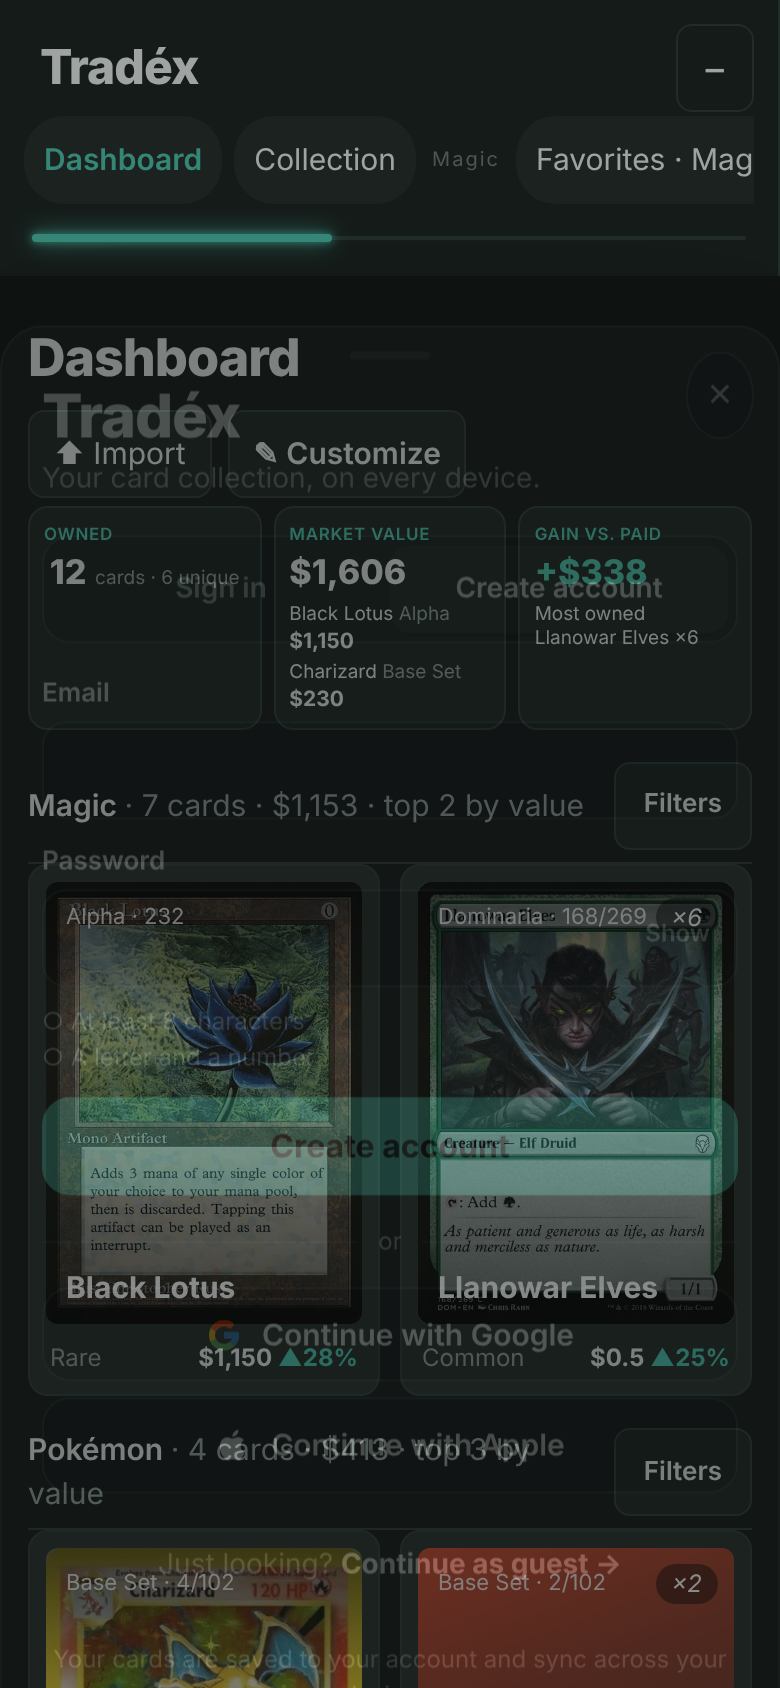
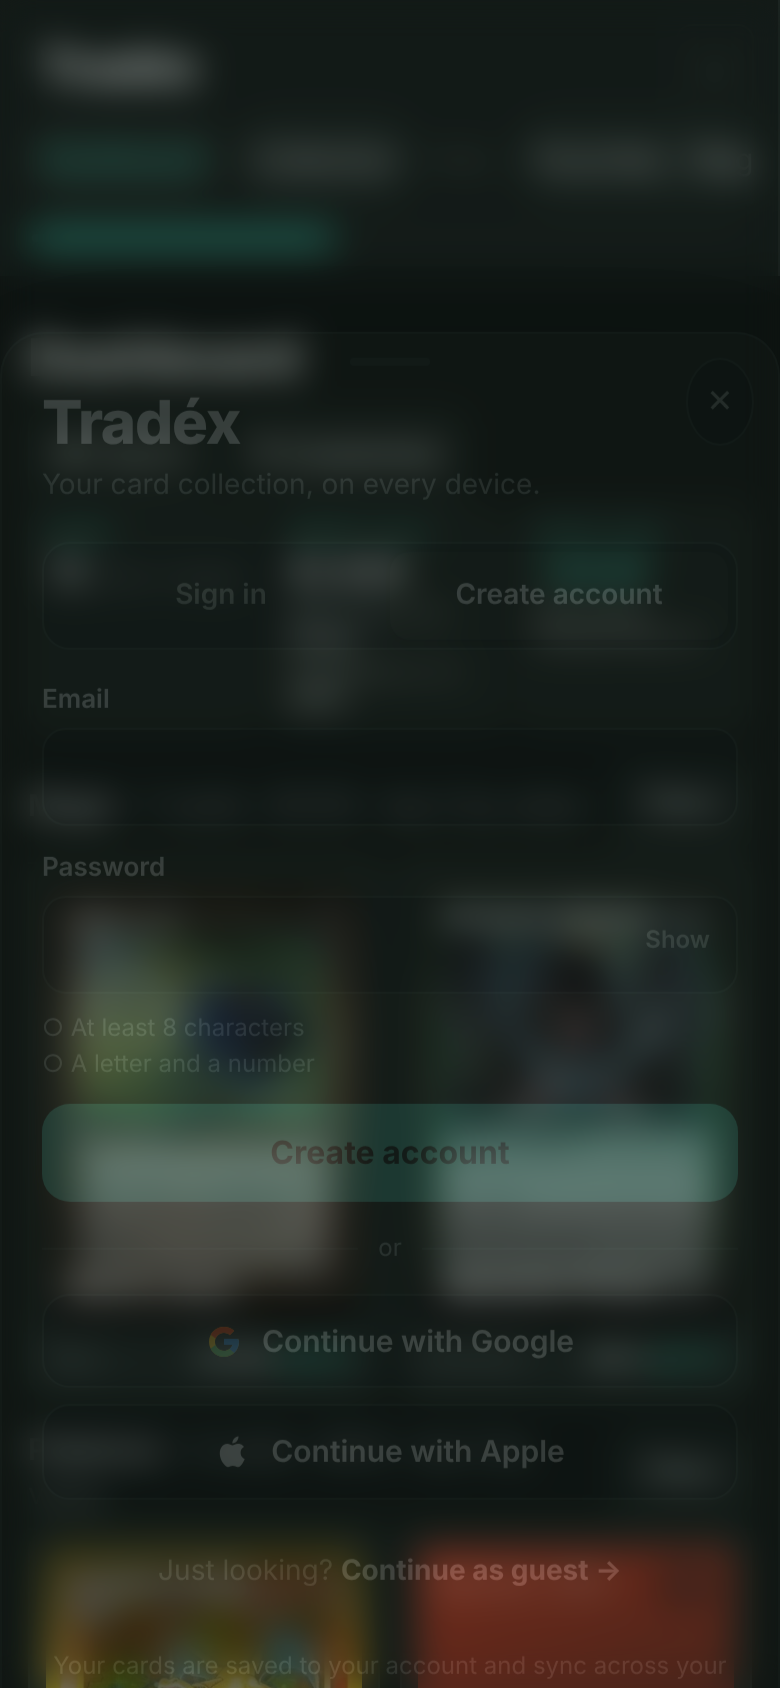
Blur the app behind sign-in, then clear the haze once you're in
The sign-in card stays the same. The live app behind it is now frosted
(backdrop blur) so you can see its shapes, and on sign-in, guest, or a
new password the haze fades away over 0.7s to reveal the app.

Claude-Session: https://claude.ai/code/session_01K6ofJxh6QarDQ2gKnJ83gJ

diff --git a/js/account.js b/js/account.js
@@ -104,7 +104,11 @@ async function adopt(){SY=loadSY();if(SY&&SY.uid===user.id)return sync();
 
 // ---------- UI: sign-in screen and account menu ----------
 const css=`#txa{position:fixed;inset:0;z-index:100000;display:flex;align-items:center;justify-content:center;padding:16px;overflow:auto;visibility:visible;color:var(--ink);
- background:rgba(6,10,9,.32);animation:txin .25s ease-out}
+ background:rgba(6,10,9,.38);-webkit-backdrop-filter:blur(9px) saturate(1.15);backdrop-filter:blur(9px) saturate(1.15);animation:txin .35s ease-out;
+ transition:background .7s ease,backdrop-filter .7s ease,-webkit-backdrop-filter .7s ease}
+#txa.clear{background:rgba(6,10,9,0);-webkit-backdrop-filter:blur(0) saturate(1);backdrop-filter:blur(0) saturate(1);pointer-events:none}
+#txa.clear .bx{transition:transform .35s ease-in,opacity .3s ease-in;transform:translateY(16px) scale(.97);opacity:0}
+@media(prefers-reduced-motion:reduce){#txa,#txa.clear .bx{transition:none;animation:none}}
 @keyframes txin{from{opacity:0}}@keyframes txup{from{transform:translateY(40px);opacity:0}}
 #txa .x{position:absolute;top:12px;right:12px;width:34px;height:34px;border-radius:50%;border:1px solid var(--line);background:var(--bg);color:var(--mut);cursor:pointer;font-size:16px;margin:0;padding:0}
 #txa .bx{position:relative;width:min(420px,100%);background:var(--panel);border:1px solid var(--line);border-radius:22px;padding:26px 24px 20px;box-shadow:0 30px 80px rgba(0,0,0,.45);animation:txup .3s ease-out}
@@ -169,7 +173,7 @@ function screen(){const up=view==='up',fan='',x=`<button type="button" class="x"
   <p class="sub">It can take a minute. Check spam if you don’t see it.</p>
   ${note&&note.resend?`<button type="button" class="go2" id="txresend">Send it again</button>`:''}<button type="button" class="go2" data-view="in">Back to sign in</button><div class="msg" id="txmsg" role="status" aria-live="polite"></div></div>`}
 function gate(msg,err){let g=$('#txa');if(!g){g=document.createElement('div');g.id='txa';document.body.appendChild(g)}
- g.innerHTML=screen();H.classList.remove('pend');if(msg)say(msg,err);
+ g.classList.remove('clear');g.innerHTML=screen();H.classList.remove('pend');if(msg)say(msg,err);
  const f=$('#txe')&&!$('#txe').value?$('#txe'):$('#txp')||$('#txe');if(f&&matchMedia('(pointer:fine)').matches)f.focus();rules()}
 function go(v){if($('#txe'))email=$('#txe').value.trim();view=v;if(v==='in'||v==='up')LS('tradex_auth_view',v);gate()}
 // Messages can carry one action, e.g. "Reset password" or "Resend email".
@@ -199,7 +203,7 @@ document.addEventListener('submit',e=>{if(e.target.id!=='txf')return;e.preventDe
   if(view==='up'){if((await BK.signUp(email,password)).confirm){note={text:`We sent a confirmation link to ${email}. Open it to finish creating your account.`,resend:true};go('sent')}}
   else if(view==='in')await BK.signIn(email,password);
   else if(view==='reset'){await BK.resetPassword(email);note={text:`We sent a password reset link to ${email}.`};go('sent')}
-  else if(view==='newpw'){await BK.updatePassword(password);const g=$('#txa');if(g)g.remove();recovering=false;if(user)status(state||'ok')}
+  else if(view==='newpw'){await BK.updatePassword(password);lift();recovering=false;if(user)status(state||'ok')}
  }catch(x){const[f,a]=friendly(x);say(f,true,a)}})});
 document.addEventListener('click',async e=>{const t=e.target.closest('button');if(!t)return;
  if(t.closest('#txa')&&t.dataset.view){go(t.dataset.view);return}
@@ -229,7 +233,8 @@ function me(){let b=$('#txme');if(!b){b=document.createElement('button');b.id='t
  b.innerHTML='<i></i>'+esc((user.email||'Account').split('@')[0]);status(state||'ok')}
 let recovering=false;
 const isGuest=()=>LS('tradex_guest')==='1';
-function guest(){LS('tradex_guest','1');const g=$('#txa');if(g)g.remove();H.classList.remove('pend');guestBtn()}
+function lift(){const g=$('#txa');if(!g||g.classList.contains('clear'))return;g.classList.add('clear');setTimeout(()=>{if(g.classList.contains('clear'))g.remove()},matchMedia('(prefers-reduced-motion:reduce)').matches?0:750)}
+function guest(){LS('tradex_guest','1');lift();H.classList.remove('pend');guestBtn()}
 function guestBtn(){let b=$('#txme');if(!b){b=document.createElement('button');b.id='txme';const imp=$('#impb');imp.parentElement.insertBefore(b,imp)}
  b.className='guest';b.textContent='Sign in';b.setAttribute('aria-label','Sign in or create an account to save your cards')}
 // The Google/Apple popup lands back on this page; there it only finishes sign-in and closes.
@@ -238,7 +243,7 @@ addEventListener('message',e=>{if(e.origin===location.origin&&e.data&&e.data.tx=
 
 // ---------- start ----------
 async function signedIn(u){if(POP){try{window.opener.postMessage({tx:'auth'},location.origin)}catch(e){}window.close();return}
- if(user&&user.id===u.id)return;LS('tradex_guest',null);user=u;if(u.email)LS('tradex_last_email',u.email);LS('tradex_auth_view','in');if(!recovering){const g=$('#txa');if(g)g.remove()}H.classList.remove('pend');me();
+ if(user&&user.id===u.id)return;LS('tradex_guest',null);user=u;if(u.email)LS('tradex_last_email',u.email);LS('tradex_auth_view','in');if(!recovering)lift();H.classList.remove('pend');me();
  try{await adopt()}catch(e){console.warn('Tradéx sync:',e);status(navigator.onLine?'error':'offline')}}
 BK.ready().then(()=>{BK.onChange(signedIn,()=>{if(user)location.reload()},()=>{recovering=true;view='newpw';gate()});return BK.session()})
  .then(u=>{if(u)signedIn(u);else if(POP){document.body.innerHTML='<p style="font:16px system-ui;padding:40px;text-align:center">Signing you in…</p>';H.classList.remove('pend')}
